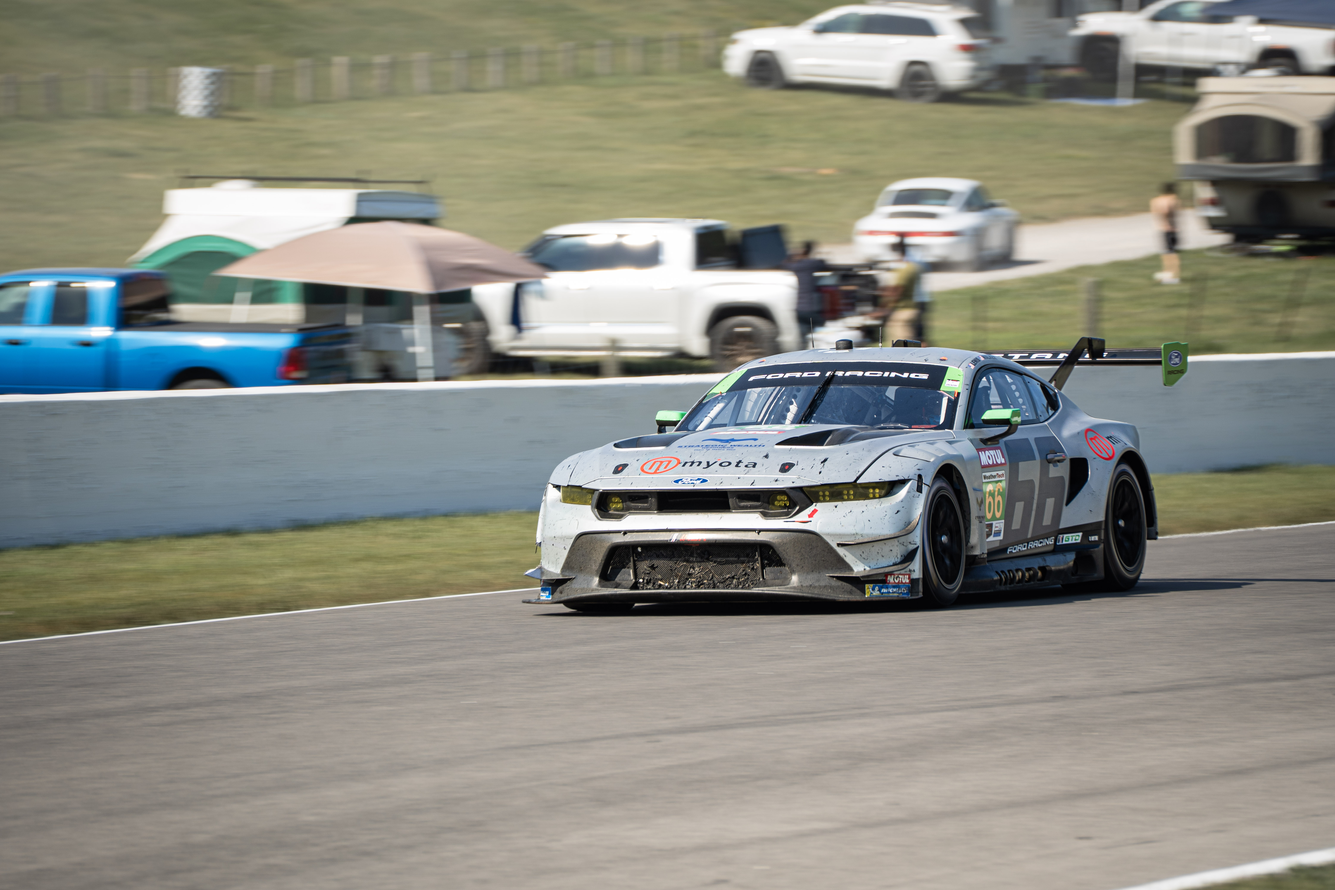
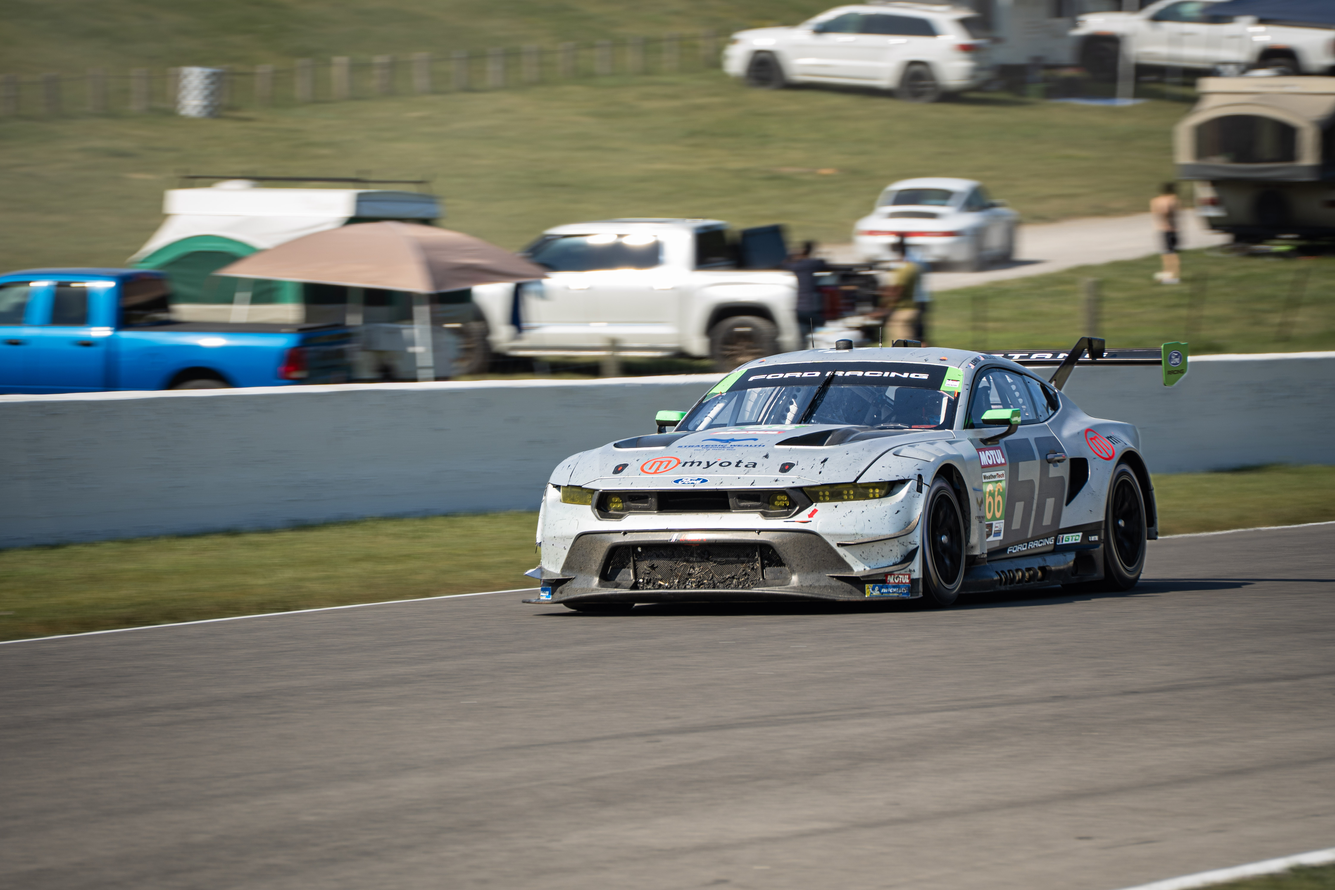
Add photo 12 and refresh photo 06

diff --git a/other-motorsport.html b/other-motorsport.html
@@ -31,7 +31,7 @@
       </div>
 
       <div class="gallery gallery-editorial" id="other-motorsport-gallery"
-        data-images="images/other-motorsport/photo-01.jpg,images/other-motorsport/photo-02.jpg,images/other-motorsport/photo-03.jpg,images/other-motorsport/photo-04.jpg,images/other-motorsport/photo-05.jpg,images/other-motorsport/photo-06.jpg,images/other-motorsport/photo-07.jpg,images/other-motorsport/photo-08.jpg,images/other-motorsport/photo-09.jpg,images/other-motorsport/photo-10.jpg,images/other-motorsport/photo-11.jpg,images/upload-slot.svg,images/upload-slot.svg"
+        data-images="images/other-motorsport/photo-01.jpg,images/other-motorsport/photo-02.jpg,images/other-motorsport/photo-03.jpg,images/other-motorsport/photo-04.jpg,images/other-motorsport/photo-05.jpg,images/other-motorsport/photo-06.jpg,images/other-motorsport/photo-07.jpg,images/other-motorsport/photo-08.jpg,images/other-motorsport/photo-09.jpg,images/other-motorsport/photo-10.jpg,images/other-motorsport/photo-11.jpg,images/other-motorsport/photo-12.jpg,images/upload-slot.svg"
         data-captions="PCCNA,Ford Mustang - Myers Riley,Ferrari - Inception Racing,Aston Martin - Car Blanche,Corvette - AWA,Ford Mustang - Gradient Racing,BMW M4 - Turner Motorsports,Lexus RCF - Vasser Sullivan,Ford Mustang - Pit lane - Ford Racing,BMW M4 GT3 EVO - Turner Motorsport,BMW M4 - Paul Miller Racing,GT3 Upload Slot 1,GT3 Upload Slot 2"></div>
     </section>
   </main>

diff --git a/script.js b/script.js
@@ -20,7 +20,7 @@ document.addEventListener('dragstart', (e) => {
 const lightbox = document.querySelector('.lightbox');
 const lightboxImg = lightbox ? lightbox.querySelector('img') : null;
 const closeBtn = lightbox ? lightbox.querySelector('.lightbox-close') : null;
-const galleryCacheVersion = '20260920-photo06-update';
+const galleryCacheVersion = '20260920-photo06-photo12-update';
 
 function withCacheBust(src) {
   if (!src) return src;
